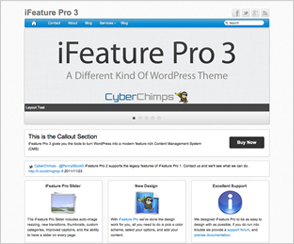
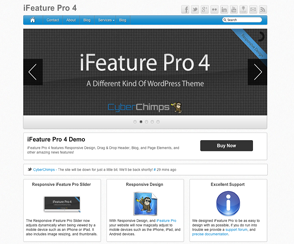
cleanup

diff --git a/core/classy-options/options-themes.php b/core/classy-options/options-themes.php
@@ -64,7 +64,7 @@ function cyberchimps_store_page_init() {
 	<div class="theme_desciptions">
 		<div class="theme_titles"><a href="http://cyberchimps.com/ifeaturepro/" target="_blank">iFeature Pro</a></div>
 		<br />
-		iFeature Pro 3 is one of the most advanced personal content management WordPress Themes in the world and now offers intuitive theme options which make using iFeature Pro even more personal and fun than ever before.
+		iFeature Pro 4 is one of the most advanced personal content management WordPress Themes in the world and now offers intuitive theme options which make using iFeature Pro even more personal and fun than ever before.
 		<br /><br />
 		iFeature Pro is an advanced WordPress theme released under the GNU GPL v2. iFeature Pro is optimized for Chrome, Safari, FireFox, and Internet Explorer 9 (we do not support Internet Explorer 6). <br /><br />
 		<div class="buy"><a href="http://cyberchimps.com/ifeaturepro/" target="_blank">Buy iFeature Pro</a></div>

diff --git a/single.php b/single.php
@@ -21,11 +21,10 @@ get_header(); ?>
 		<?php if (function_exists('synapse_breadcrumbs') && ($options->get($themeslug.'_disable_breadcrumbs') == "1")) { synapse_breadcrumbs(); }?>
 	</div>
 	<div class="row">
+	
 	<!--Begin @Core post area-->
 		<?php synapse_index(); ?>
 	<!--End @Core post area-->
-	
-
 
 	</div>
 </div><!--end container-->
